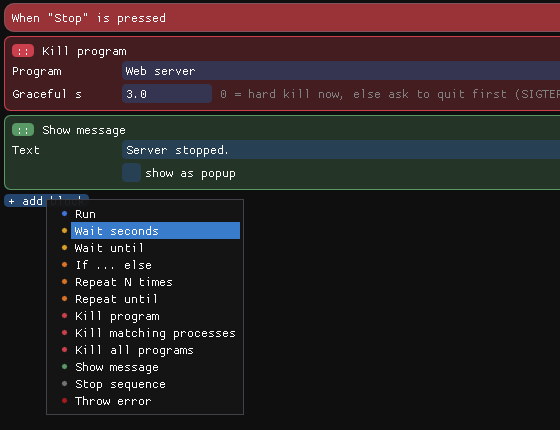
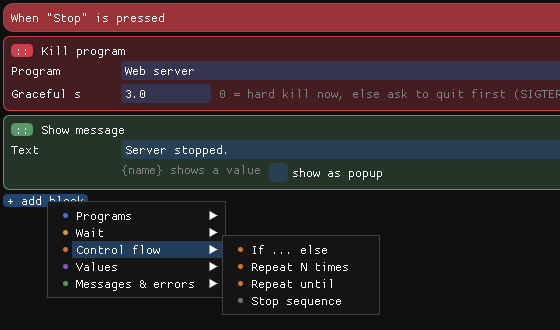
Editor: "+ add block" menu with one submenu per block family
With 14 block types the flat list had grown long. The menu now shows
five families, each opening a submenu: Programs (Run and the kill
blocks), Wait, Control flow (If, Repeat, Stop), Values (Set value,
Operate) and Messages & errors (Show message, Throw error). The family
lives in the block table, so a new block type can't be left out of the
menu; a test checks every type is listed and families stay together.
Also retakes the README screenshot of the menu.

diff --git a/src/common/blocks.cpp b/src/common/blocks.cpp
@@ -8,20 +8,20 @@
 namespace fs = std::filesystem;
 
 const BlockInfo kBlocks[] = {
-	{BT::Run, "run", "Run", {0.26f, 0.45f, 0.85f, 1}},
-	{BT::WaitSeconds, "wait", "Wait seconds", {0.85f, 0.62f, 0.15f, 1}},
-	{BT::WaitUntil, "wait_until", "Wait until", {0.85f, 0.62f, 0.15f, 1}},
-	{BT::If, "if", "If ... else", {0.85f, 0.45f, 0.15f, 1}},
-	{BT::RepeatN, "repeat", "Repeat N times", {0.85f, 0.45f, 0.15f, 1}},
-	{BT::RepeatUntil, "repeat_until", "Repeat until", {0.85f, 0.45f, 0.15f, 1}},
-	{BT::SetValue, "set", "Set value", {0.55f, 0.35f, 0.80f, 1}},
-	{BT::Operate, "operate", "Operate on values", {0.55f, 0.35f, 0.80f, 1}},
-	{BT::KillProgram, "kill", "Kill program", {0.80f, 0.25f, 0.30f, 1}},
-	{BT::KillMatching, "kill_matching", "Kill matching processes", {0.80f, 0.25f, 0.30f, 1}},
-	{BT::KillAll, "kill_all", "Kill all programs", {0.80f, 0.25f, 0.30f, 1}},
-	{BT::Message, "message", "Show message", {0.35f, 0.60f, 0.40f, 1}},
-	{BT::Stop, "stop", "Stop sequence", {0.45f, 0.45f, 0.45f, 1}},
-	{BT::Throw, "throw", "Throw error", {0.65f, 0.10f, 0.12f, 1}},
+	{BT::Run, "run", "Run", "Programs", {0.26f, 0.45f, 0.85f, 1}},
+	{BT::KillProgram, "kill", "Kill program", "Programs", {0.80f, 0.25f, 0.30f, 1}},
+	{BT::KillMatching, "kill_matching", "Kill matching processes", "Programs", {0.80f, 0.25f, 0.30f, 1}},
+	{BT::KillAll, "kill_all", "Kill all programs", "Programs", {0.80f, 0.25f, 0.30f, 1}},
+	{BT::WaitSeconds, "wait", "Wait seconds", "Wait", {0.85f, 0.62f, 0.15f, 1}},
+	{BT::WaitUntil, "wait_until", "Wait until", "Wait", {0.85f, 0.62f, 0.15f, 1}},
+	{BT::If, "if", "If ... else", "Control flow", {0.85f, 0.45f, 0.15f, 1}},
+	{BT::RepeatN, "repeat", "Repeat N times", "Control flow", {0.85f, 0.45f, 0.15f, 1}},
+	{BT::RepeatUntil, "repeat_until", "Repeat until", "Control flow", {0.85f, 0.45f, 0.15f, 1}},
+	{BT::Stop, "stop", "Stop sequence", "Control flow", {0.45f, 0.45f, 0.45f, 1}},
+	{BT::SetValue, "set", "Set value", "Values", {0.55f, 0.35f, 0.80f, 1}},
+	{BT::Operate, "operate", "Operate on values", "Values", {0.55f, 0.35f, 0.80f, 1}},
+	{BT::Message, "message", "Show message", "Messages & errors", {0.35f, 0.60f, 0.40f, 1}},
+	{BT::Throw, "throw", "Throw error", "Messages & errors", {0.65f, 0.10f, 0.12f, 1}},
 };
 const int kBlockCount = sizeof(kBlocks) / sizeof(kBlocks[0]);
 

diff --git a/src/editor/editor.cpp b/src/editor/editor.cpp
@@ -11,6 +11,7 @@
 #include <algorithm>
 #include <cmath>
 #include <cstdio>
+#include <cstring>
 #include <filesystem>
 #include <functional>
 #include <map>
@@ -409,22 +410,38 @@ static void edit_block(Seq &seq, const SeqPath &path, int i, bool &dirty)
 	ImGui::PopID();
 }
 
+static void colored_bullet(Color c)
+{
+	ImGui::PushStyleColor(ImGuiCol_Text, to_imvec(c));
+	ImGui::Bullet();
+	ImGui::PopStyleColor();
+	ImGui::SameLine();
+}
+
 static void add_menu(Seq &seq, bool &dirty)
 {
 	if (!ImGui::BeginPopup("add")) return;
-	for (int i = 0; i < kBlockCount; i++) {
-		const BlockInfo &bi = kBlocks[i];
-		ImGui::PushStyleColor(ImGuiCol_Text, to_imvec(bi.color));
-		ImGui::Bullet();
-		ImGui::PopStyleColor();
-		ImGui::SameLine();
-		if (ImGui::Selectable(bi.label)) {
-			Block b;
-			b.type = bi.type;
-			if (b.type == BT::WaitUntil) b.seconds = -1;
-			seq.push_back(b);
-			dirty = true;
+	// One submenu per family (kBlocks keeps each family together), bullet in the family's first colour.
+	for (int f = 0; f < kBlockCount;) {
+		int end = f;
+		while (end < kBlockCount && !strcmp(kBlocks[end].family, kBlocks[f].family)) end++;
+		colored_bullet(kBlocks[f].color);
+		bool open = ImGui::BeginMenu(kBlocks[f].family);
+		int first = f;
+		f = end;
+		if (!open) continue;
+		for (int i = first; i < end; i++) {
+			const BlockInfo &bi = kBlocks[i];
+			colored_bullet(bi.color);
+			if (ImGui::MenuItem(bi.label)) {
+				Block b;
+				b.type = bi.type;
+				if (b.type == BT::WaitUntil) b.seconds = -1;
+				seq.push_back(b);
+				dirty = true;
+			}
 		}
+		ImGui::EndMenu();
 	}
 	ImGui::EndPopup();
 }

diff --git a/tests/tests.cpp b/tests/tests.cpp
@@ -14,6 +14,7 @@
 #include <cstdlib>
 #include <filesystem>
 #include <fstream>
+#include <set>
 #include <thread>
 #include <algorithm>
 
@@ -72,6 +73,21 @@ static void test_util()
 	CHECK(with_json_extension("dir/setup.json") == "dir/setup.json");
 	CHECK(with_json_extension("dir/setup.txt") == "dir/setup.txt");
 	CHECK(with_json_extension("") == "");
+}
+
+static void test_block_table()
+{
+	// Every block type is listed once, and each family's blocks are together ("+ add block" submenus).
+	std::set<int> types;
+	std::set<std::string> families_done;
+	for (int i = 0; i < kBlockCount; i++) {
+		types.insert((int)kBlocks[i].type);
+		if (i > 0 && std::string(kBlocks[i].family) != kBlocks[i - 1].family) {
+			CHECK(!families_done.count(kBlocks[i].family));
+			families_done.insert(kBlocks[i - 1].family);
+		}
+	}
+	CHECK((int)types.size() == kBlockCount && kBlockCount == (int)BT::Throw + 1);
 }
 
 static void test_json_round_trip()
@@ -478,6 +494,7 @@ static void test_process()
 int main()
 {
 	test_util();
+	test_block_table();
 	test_json_round_trip();
 	test_config();
 	test_moves();

diff --git a/src/common/blocks.hpp b/src/common/blocks.hpp
@@ -22,6 +22,7 @@ struct BlockInfo {
 	BT type;
 	const char *id;    // name in the JSON file
 	const char *label; // name in the editor
+	const char *family; // submenu of "+ add block"; kBlocks keeps each family together
 	Color color;
 };
 

diff --git a/README.md b/README.md
@@ -95,11 +95,11 @@ with `^` `v`, removed with `x`.
 <table>
 <tr>
 <td width="50%"><img src="docs/screenshots/editor-stop.png" alt="The Stop button: Kill program with a 3 s grace period, then Show message"></td>
-<td width="50%"><img src="docs/screenshots/editor-add-block.png" alt="The + add block menu listing the 12 block types"></td>
+<td width="50%"><img src="docs/screenshots/editor-add-block.png" alt="The + add block menu: Programs, Wait, Control flow, Values, Messages &amp; errors submenus, Control flow open"></td>
 </tr>
 <tr>
 <td><b>Stop</b>: ask the web server to quit, kill it if it's still there after 3 s, say so.</td>
-<td><b>+ add block</b>: the block types, colour-coded by family.</td>
+<td><b>+ add block</b>: one submenu per family (Programs, Wait, Control flow, Values, Messages &amp; errors), colour-coded.</td>
 </tr>
 </table>
 

diff --git a/llm-readme.md b/llm-readme.md
@@ -38,6 +38,7 @@ FILE may be relative; `~`, `$VAR`, `${VAR}` expanded. The editor without FILE fi
 `color` floats 0–1 (alpha optional). Legacy `{"start":[...],"stop":[...]}` is read as two buttons.
 
 ### Blocks (`type` → fields, defaults)
+Editor "+ add block" menu has one submenu per family: Programs (run, kill*), Wait, Control flow (if, repeat*, stop), Values (set, operate), Messages & errors (message, throw).
 | type | fields |
 |---|---|
 | `run` | `name` (id used by other blocks), `command`, `shell` false (`sh -c` / `cmd /c`), `cwd` "", `env` "" (`K=V` per line), `match` "" (comma-separated substrings of a process command line: finds/kills it even if not started by autom8), `blocking` false, `min_seconds` 0, `max_seconds` -1, `skip_if_running` true |
